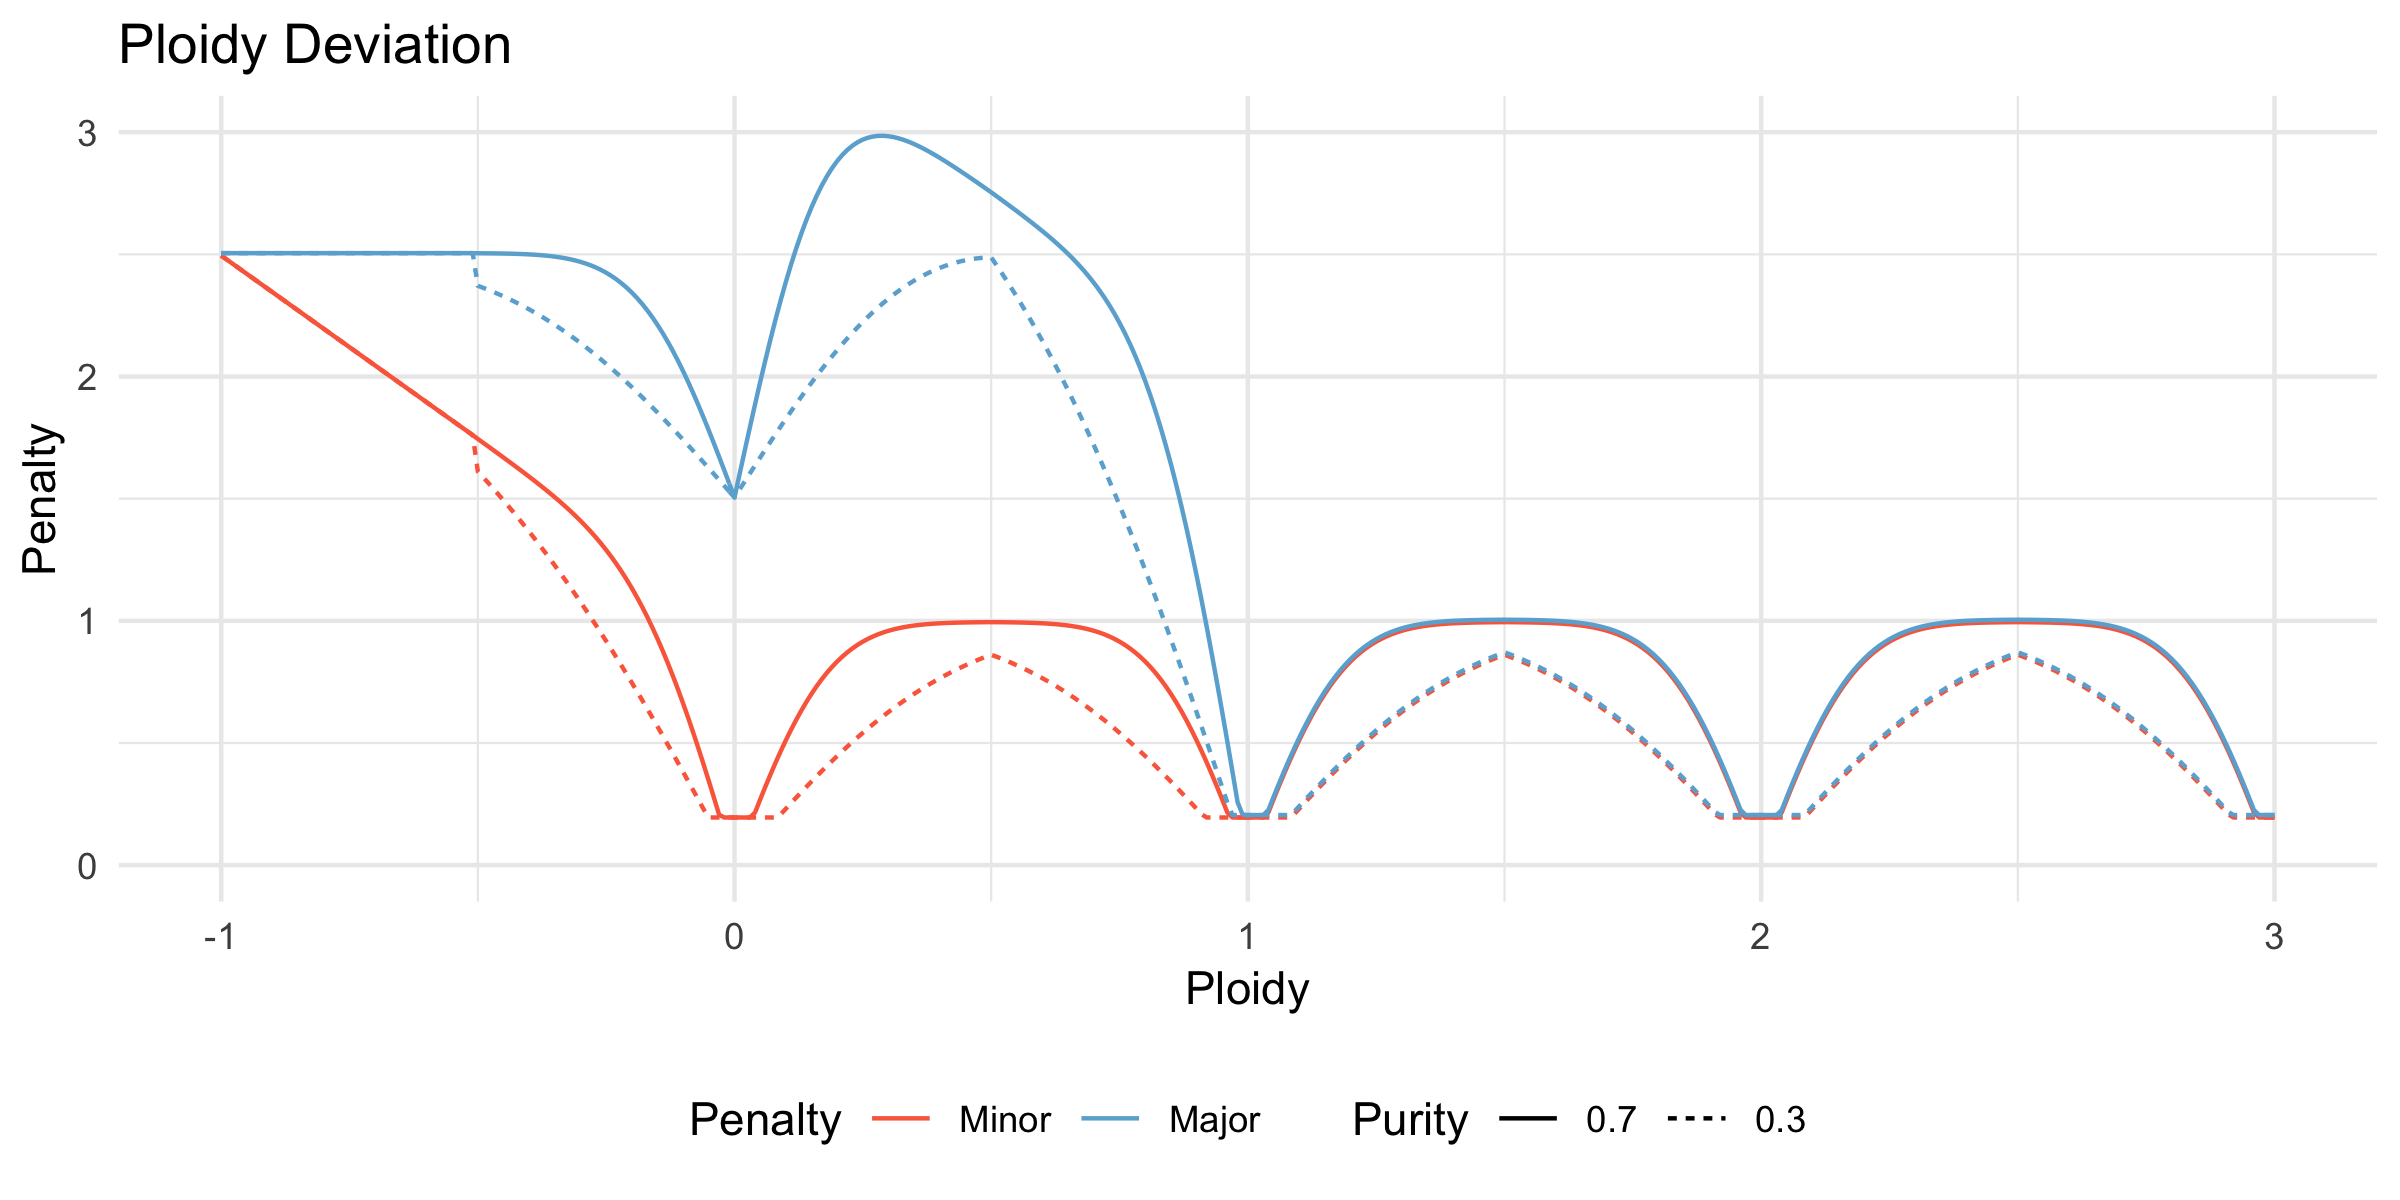
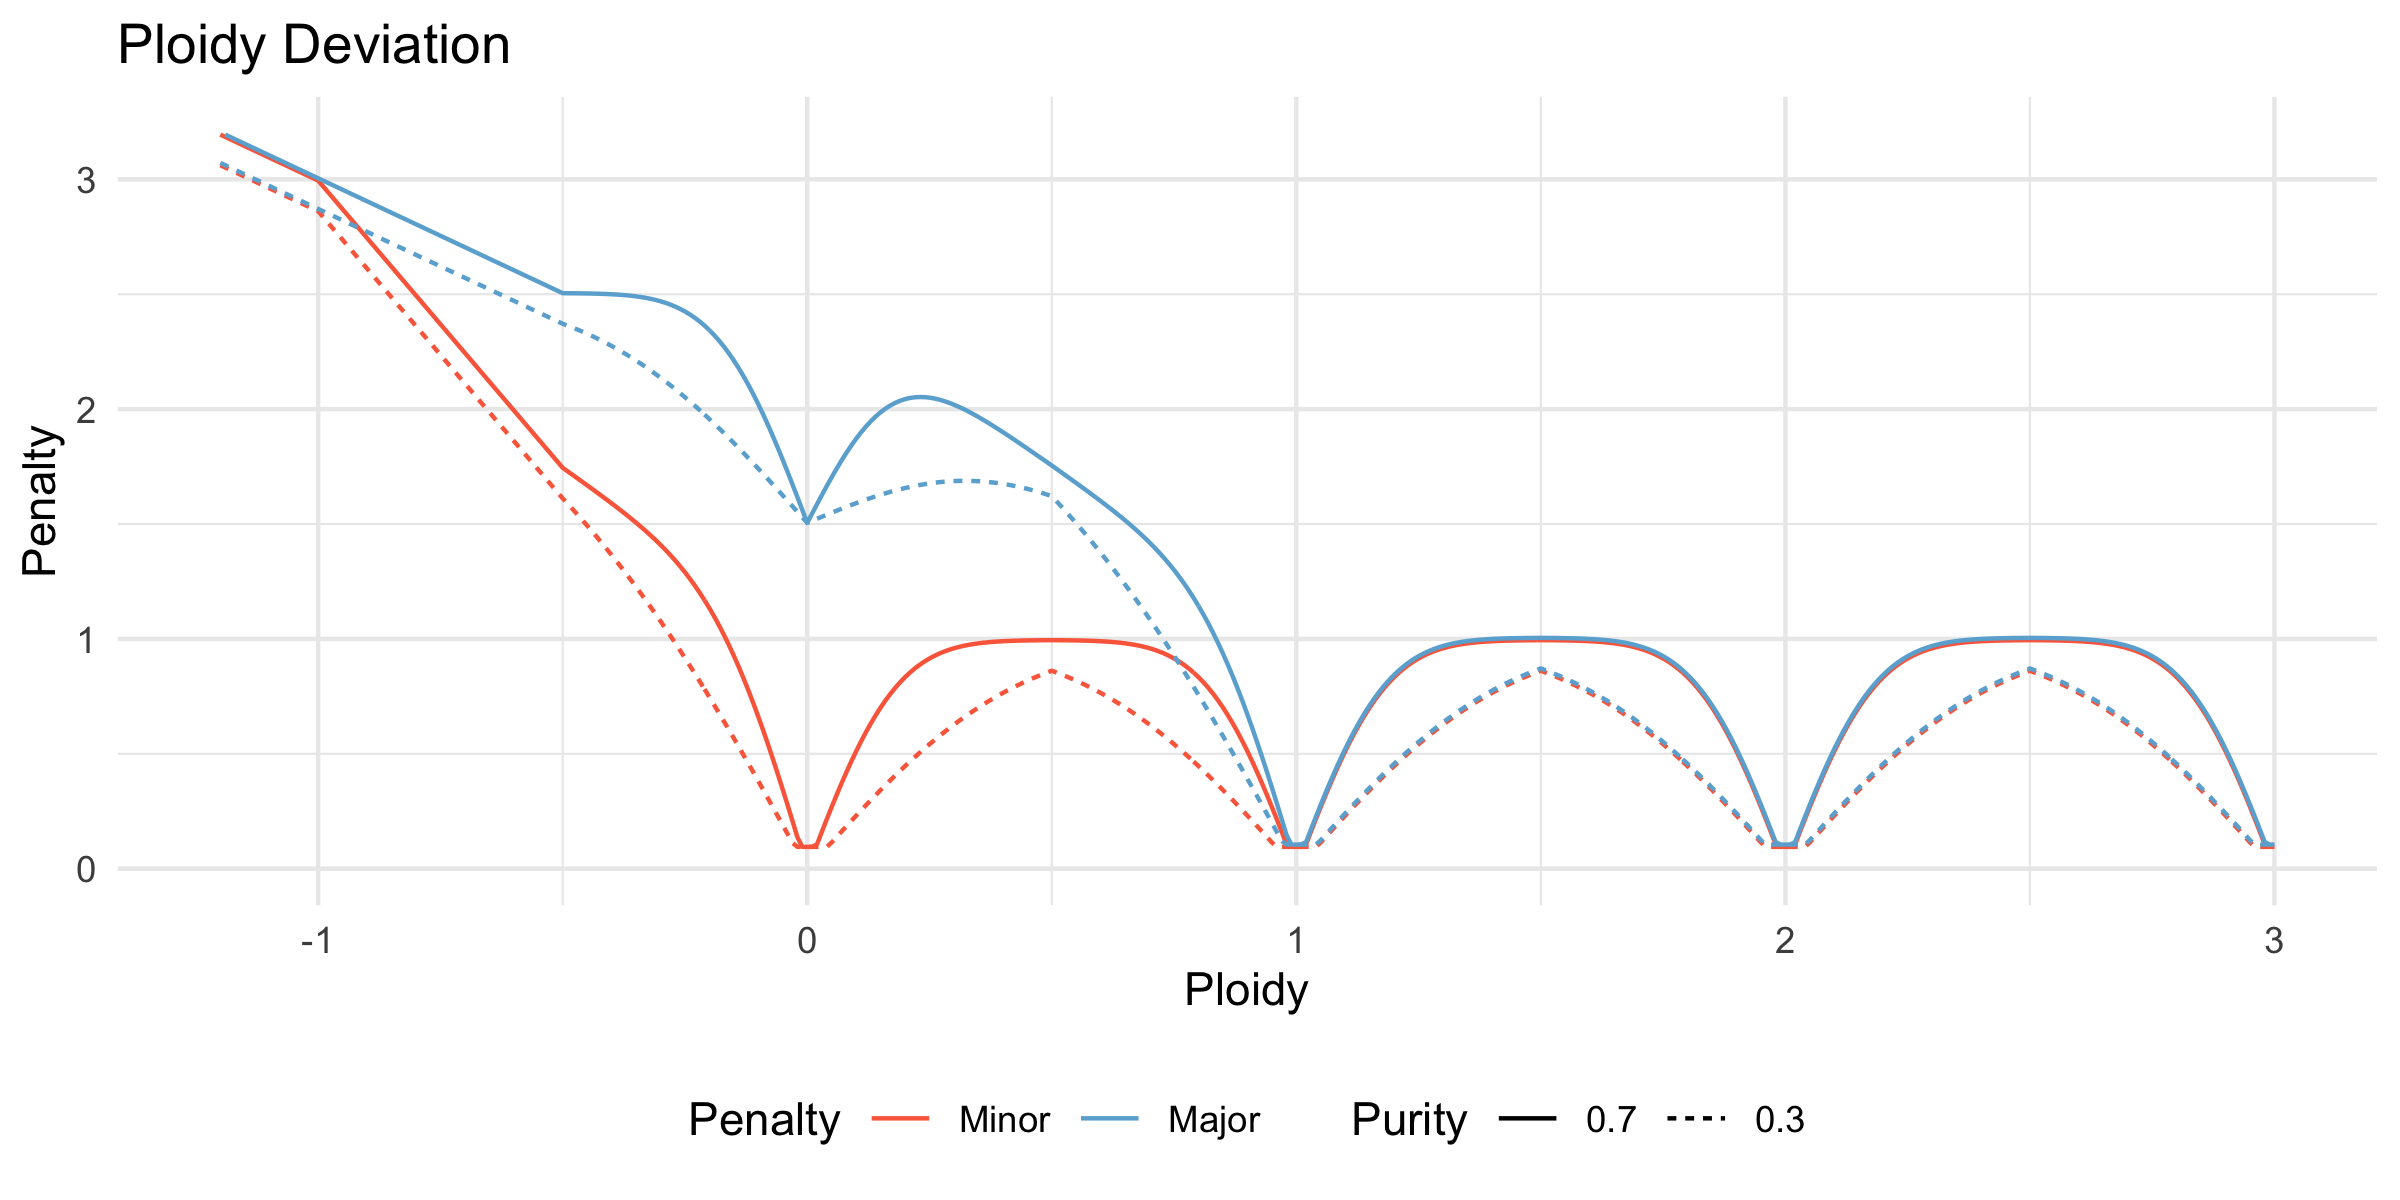
Updated fitting deviation to aggressively penalise highly negative implied copy number

diff --git a/hmf-common/src/main/java/com/hartwig/hmftools/common/purple/region/PloidyDeviation.java b/hmf-common/src/main/java/com/hartwig/hmftools/common/purple/region/PloidyDeviation.java
@@ -24,8 +24,9 @@ class PloidyDeviation {
     }
 
     double majorAlleleDeviation(final double purity, final double normFactor, final double ploidy) {
-        final double majorAlleleDeviationMultiplier =
-                Doubles.greaterThan(ploidy, 0) && Doubles.lessThan(ploidy, 1) ? majorAlleleSubOnePenaltyMultiplier : 1;
+        final double majorAlleleDeviationMultiplier = Doubles.greaterThan(ploidy, 0) && Doubles.lessThan(ploidy, 1)
+                ? Math.max(1, majorAlleleSubOnePenaltyMultiplier * (1 - ploidy))
+                : 1;
         final double deviation =
                 majorAlleleDeviationMultiplier * alleleDeviation(purity, normFactor, ploidy) + subMinAdditionalPenalty(1, ploidy);
         return Math.max(deviation, minDeviation);
@@ -37,13 +38,12 @@ class PloidyDeviation {
     }
 
     private double alleleDeviation(final double purity, final double normFactor, final double ploidy) {
-        if (Doubles.lessThan(ploidy, -0.5)) {
-            return 1;
-        }
+        final double ploidyDistanceFromInteger = Doubles.lessThan(ploidy, -0.5)
+                ? 0.5
+                : Doubles.absDistanceFromInteger(ploidy);
 
-        double ploidyDistanceFromInteger = Doubles.absDistanceFromInteger(ploidy);
         double standardDeviationsPerPloidy = Math.max(minStandardDeviationPerPloidyPoint, purity * normFactor / 2 / standardDeviation);
-        return 2 * dist.cumulativeProbability(ploidyDistanceFromInteger * standardDeviationsPerPloidy) - 1;
+        return 2 * dist.cumulativeProbability(ploidyDistanceFromInteger * standardDeviationsPerPloidy) - 1 + Math.max(-0.5 - ploidy, 0);
     }
 
     private double subMinAdditionalPenalty(final double minPloidy, final double ploidy) {

diff --git a/purity-ploidy-estimator/src/main/java/com/hartwig/hmftools/purple/config/FitScoreConfig.java b/purity-ploidy-estimator/src/main/java/com/hartwig/hmftools/purple/config/FitScoreConfig.java
@@ -13,18 +13,18 @@ import org.jetbrains.annotations.Nullable;
 public interface FitScoreConfig {
 
     String PLOIDY_PENALTY_FACTOR = "ploidy_penalty_factor";
-    String PLOIDY_PENALTY_STANDARD_DEVIATION = "ploidy_penalty_standard_deviation";
-    String PLOIDY_PENALTY_MIN_STANDARD_DEVIATION = "ploidy_penalty_min_standard_deviation_per_ploidy";
     String PLOIDY_PENALTY_SUB_MIN_ADDITIONAL = "ploidy_penalty_sub_min_additional";
     String PLOIDY_PENALTY_SUB_ONE_MAJOR_ALLELE_MULTIPLIER = "ploidy_penalty_sub_one_major_allele_multiplier";
+    String PLOIDY_PENALTY_STANDARD_DEVIATION = "ploidy_penalty_standard_deviation";
+    String PLOIDY_PENALTY_MIN_STANDARD_DEVIATION = "ploidy_penalty_min_standard_deviation_per_ploidy";
     String PLOIDY_PENALTY_MIN = "ploidy_penalty_min";
 
-    double PLOIDY_PENALTY_FACTOR_DEFAULT = 0.3;
+    double PLOIDY_PENALTY_FACTOR_DEFAULT = 0.4;
     double PLOIDY_PENALTY_STANDARD_DEVIATION_DEFAULT = 0.05;
-    double PLOIDY_PENALTY_MIN_STANDARD_DEVIATION_DEFAULT = 1;
-    double PLOIDY_PENALTY_SUB_ONE_MAJOR_ALLELE_MULTIPLIER_DEFAULT = 2;
+    double PLOIDY_PENALTY_MIN_STANDARD_DEVIATION_DEFAULT = 1.5;
+    double PLOIDY_PENALTY_SUB_ONE_MAJOR_ALLELE_MULTIPLIER_DEFAULT = 1;
     double PLOIDY_PENALTY_SUB_MIN_ADDITIONAL_DEFAULT = 1.5;
-    double PLOIDY_PENALTY_MIN_DEFAULT = 0.2;
+    double PLOIDY_PENALTY_MIN_DEFAULT = 0.1;
 
     static void addOptions(@NotNull Options options) {
         options.addOption(PLOIDY_PENALTY_FACTOR, true, "Penalty factor to apply to the number of copy number events");

diff --git a/hmf-common/src/test/java/com/hartwig/hmftools/common/purple/purity/SomaticDeviationTest.java b/hmf-common/src/test/java/com/hartwig/hmftools/common/purple/purity/SomaticDeviationTest.java
@@ -25,6 +25,13 @@ public class SomaticDeviationTest {
         assertEquals(0.65, deviationFromMax, 0.01);
     }
 
+    @Test
+    public void testMaxConcievableReadsIsZeroWithNegativeTumorCopyNumber() {
+        PurityAdjuster purityAdjuster = new PurityAdjuster(Gender.FEMALE, 0.12, 0.98);
+        int maxReads = SomaticDeviation.INSTANCE.maxConceivableReads(purityAdjuster, 2, depth(18, 55),  -0.1, -0.1);
+        assertEquals(0, maxReads);
+    }
+
     @NotNull
     private static AllelicDepth depth(int alleleReadCount, int totalReadCount) {
         return ImmutableAllelicDepthImpl.builder().alleleReadCount(alleleReadCount).totalReadCount(totalReadCount).build();

diff --git a/hmf-common/src/test/java/com/hartwig/hmftools/common/purple/PurityAdjusterTest.java b/hmf-common/src/test/java/com/hartwig/hmftools/common/purple/PurityAdjusterTest.java
@@ -39,6 +39,13 @@ public class PurityAdjusterTest {
         assertFrequencyMatchesPloidy(victim, 2, 0, 3, 2);
     }
 
+    @Test
+    public void testExpectedFrequencyWithNegativeTumorCopyNumber() {
+        final PurityAdjuster victim = new PurityAdjuster(Gender.FEMALE, 1, 1d);
+        assertEquals(0, victim.expectedFrequency(2, 1, -0.2, -0.1), EPSILON);
+    }
+
+
     private void assertFrequencyMatchesPloidy(final PurityAdjuster victim, final int normalCopyNumber, final int normalPloidy,
             final double tumorCopyNumber, final double tumorPloidy) {
 

diff --git a/hmf-common/src/main/java/com/hartwig/hmftools/common/purple/PurityAdjuster.java b/hmf-common/src/main/java/com/hartwig/hmftools/common/purple/PurityAdjuster.java
@@ -90,6 +90,10 @@ public class PurityAdjuster {
 
     public double expectedFrequency(final int normalCopyNumber, final int normalPloidy, final double tumorCopyNumber,
             final double tumorPloidy) {
+        if (Doubles.lessOrEqual(tumorCopyNumber, 0)) {
+            return 0;
+        }
+
         double totalObservations = purity * tumorCopyNumber + normalCopyNumber * (1 - purity);
         double normalObservations = normalPloidy * (1 - purity);
         double tumorObservations = tumorPloidy * purity;

diff --git a/purity-ploidy-estimator/README.md b/purity-ploidy-estimator/README.md
@@ -1002,6 +1002,8 @@ Threads | Elapsed Time| CPU Time | Peak Mem
 
 
 ## Version History and Download Links
+- Upcoming
+  - Updated fitting deviation to aggressively penalise highly negative implied copy number
 - [2.40](https://github.com/hartwigmedical/hmftools/releases/tag/purple-v2.40) 
   - Increase default value of min_diploid_tumor_ratio_count_centromere to 150
   - Update driver catalog DNDS values
